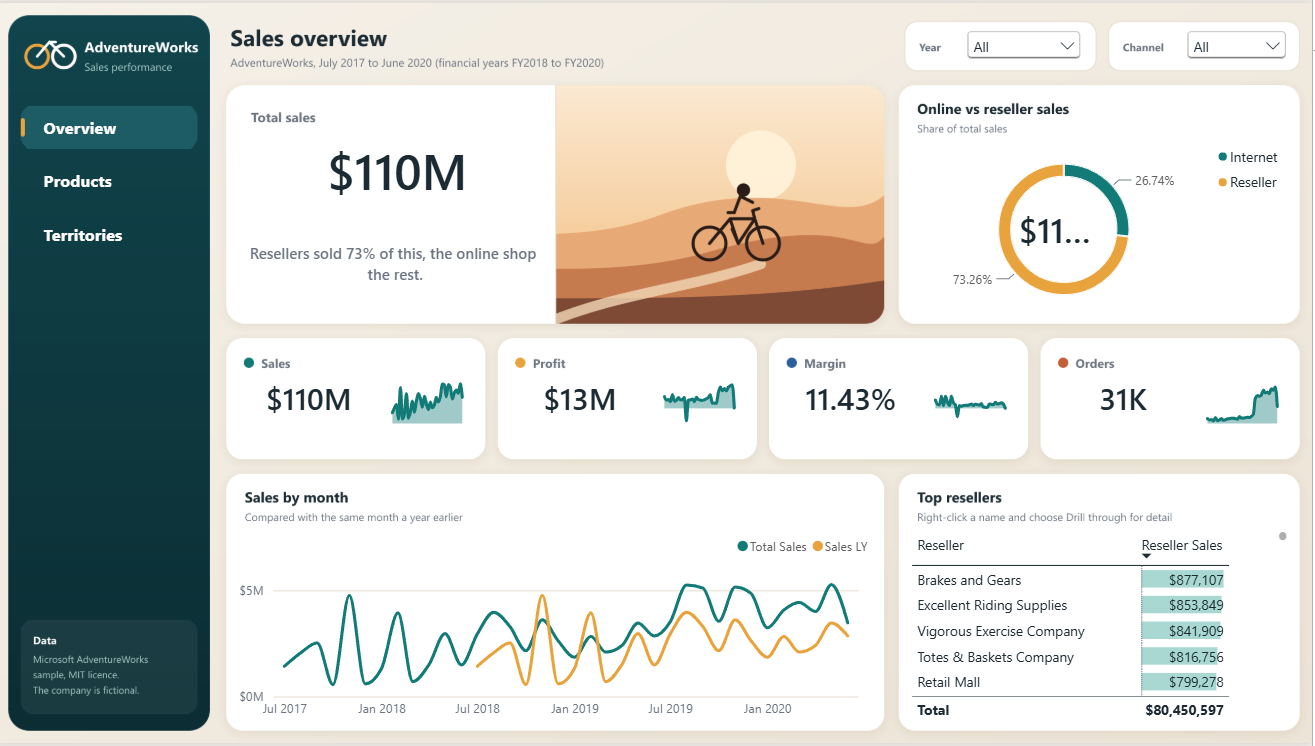
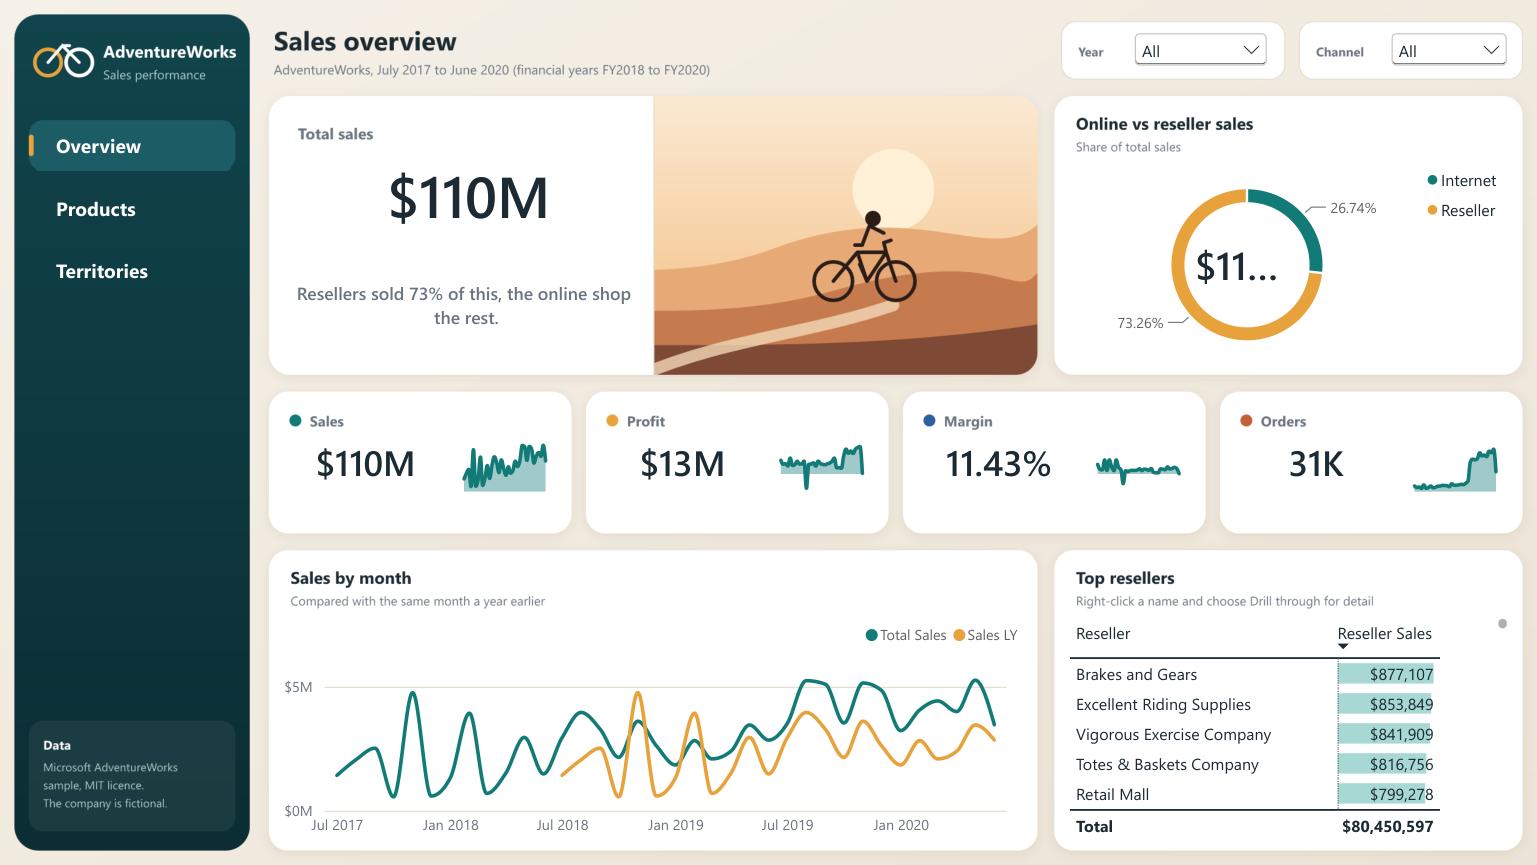
Power BI page: show all four report pages in a tabbed viewer

diff --git a/adventureworks.html b/adventureworks.html
@@ -23,8 +23,8 @@
       content="A four-page Power BI report on Microsoft's fictional AdventureWorks sales data: $110M of sales, 11.43% margin, and online against reseller sales."
     />
     <meta property="og:image" content="https://yarida-cv.vercel.app/images/adventureworks-overview.png" />
-    <meta property="og:image:width" content="1315" />
-    <meta property="og:image:height" content="746" />
+    <meta property="og:image:width" content="1537" />
+    <meta property="og:image:height" content="865" />
     <meta property="og:image:alt" content="The Sales overview page of the Power BI report, with total sales, profit, margin, orders, online against reseller sales and sales by month" />
     <meta name="twitter:card" content="summary_large_image" />
     <meta name="twitter:title" content="Power BI sales report | Yarida Kaewthong" />
@@ -44,6 +44,23 @@
     <link rel="stylesheet" href="housing.css" />
     <style>
       .result-shot { margin: 1.5rem 0 0; }
+      .aw-viewer { margin: 3rem 0 2.5rem; border: 1px solid var(--line); background: var(--surface); }
+      .aw-bar { display: flex; flex-wrap: wrap; align-items: center; gap: .6rem 1.25rem; padding: .85rem 1rem; border-bottom: 1px solid var(--line); }
+      .aw-title { margin: 0; font-family: "Public Sans", sans-serif; font-weight: 700; font-size: 1rem; color: var(--ink); }
+      .aw-title span { margin-left: .5rem; font-weight: 500; font-size: .85rem; color: var(--muted); }
+      .aw-tabs { display: flex; flex-wrap: wrap; gap: .4rem; margin-left: auto; }
+      .aw-tabs button { font: inherit; font-size: .92rem; font-weight: 600; padding: .45rem .9rem; min-height: 44px; border: 1px solid var(--line); background: var(--paper); color: var(--muted); cursor: pointer; }
+      .aw-tabs button:hover { color: var(--ink); border-color: var(--ink); }
+      .aw-tabs button[aria-selected="true"] { background: var(--ink); border-color: var(--ink); color: var(--paper); }
+      .aw-tabs button:focus-visible { outline: 3px solid var(--accent); outline-offset: 2px; }
+      .aw-stage { padding: 1rem; }
+      .aw-panel { margin: 0; }
+      .aw-open { display: block; cursor: zoom-in; }
+      .aw-panel img { display: block; width: 100%; height: auto; border: 1px solid var(--line); background: #fff; }
+      .aw-panel figcaption { margin-top: .75rem; color: var(--muted); font-size: .95rem; }
+      .aw-foot { margin: 0; padding: .6rem 1rem .8rem; border-top: 1px solid var(--line); color: var(--muted); font-size: .85rem; }
+      @media (max-width: 640px) { .aw-tabs { margin-left: 0; width: 100%; } .aw-tabs button { flex: 1 1 calc(50% - .4rem); } }
+      @media print { .aw-panel[hidden] { display: block; } .aw-tabs, .aw-foot { display: none; } }
     </style>
   </head>
   <body>
@@ -89,17 +106,36 @@
             <div><span class="metric-number">73%</span><span>of sales came from resellers<br />the online shop sold 27%</span></div>
           </div>
 
-          <figure class="study-hero" id="overview">
-            <img
-              src="images/adventureworks-overview.png"
-              alt="The Sales overview page of the Power BI report: total sales of $110 million, an online against reseller donut chart (26.74% and 73.26%), cards for sales, profit, margin and orders, a monthly sales line chart compared with the year before, and a table of top resellers"
-              width="1315"
-              height="746"
-            />
-            <figcaption>
-              The Overview page. The four cards show sales, profit, margin and orders, and the line chart compares each month with the same month a year earlier.
-            </figcaption>
-          </figure>
+          <section class="aw-viewer" id="overview" aria-label="The four pages of the Power BI report">
+            <div class="aw-bar">
+              <p class="aw-title">AdventureWorks sales report <span>4 pages</span></p>
+              <div class="aw-tabs" role="tablist" aria-label="Report pages">
+                <button type="button" role="tab" id="aw-tab-overview" aria-controls="aw-panel-overview" aria-selected="true">Overview</button>
+                <button type="button" role="tab" id="aw-tab-products" aria-controls="aw-panel-products" aria-selected="false" tabindex="-1">Products</button>
+                <button type="button" role="tab" id="aw-tab-territories" aria-controls="aw-panel-territories" aria-selected="false" tabindex="-1">Territories</button>
+                <button type="button" role="tab" id="aw-tab-reseller-detail" aria-controls="aw-panel-reseller-detail" aria-selected="false" tabindex="-1">Reseller detail</button>
+              </div>
+            </div>
+            <div class="aw-stage">
+              <figure class="aw-panel" role="tabpanel" id="aw-panel-overview" aria-labelledby="aw-tab-overview">
+                <a class="aw-open" href="images/adventureworks-overview.png" target="_blank" rel="noopener"><img src="images/adventureworks-overview.png" alt="The Sales overview page: total sales, an online against reseller donut chart, cards for sales, profit, margin and orders, a monthly sales line compared with the year before, and the top resellers." width="1537" height="865" /></a>
+                <figcaption>The Overview page. The four cards show sales, profit, margin and orders, and the line chart compares each month with the same month a year earlier.</figcaption>
+              </figure>
+              <figure class="aw-panel" role="tabpanel" id="aw-panel-products" aria-labelledby="aw-tab-products" hidden>
+                <a class="aw-open" href="images/adventureworks-products.png" target="_blank" rel="noopener"><img src="images/adventureworks-products.png" alt="The Products page: sales and margin by product category, sales by subcategory, margin by subcategory and a product ranking." width="1537" height="865" loading="lazy" /></a>
+                <figcaption>The Products page. Bikes are 86% of sales, and accessories have the highest margin at about 50%.</figcaption>
+              </figure>
+              <figure class="aw-panel" role="tabpanel" id="aw-panel-territories" aria-labelledby="aw-tab-territories" hidden>
+                <a class="aw-open" href="images/adventureworks-territories.png" target="_blank" rel="noopener"><img src="images/adventureworks-territories.png" alt="The Territories page: sales by country this year and last, year-on-year growth by region, reseller sales by business type and a table of online, reseller and shipped sales by country." width="1537" height="865" loading="lazy" /></a>
+                <figcaption>The Territories page. Pick a year to compare each country with the year before. The table shows shipped sales using the ship-date relationship.</figcaption>
+              </figure>
+              <figure class="aw-panel" role="tabpanel" id="aw-panel-reseller-detail" aria-labelledby="aw-tab-reseller-detail" hidden>
+                <a class="aw-open" href="images/adventureworks-reseller-detail.png" target="_blank" rel="noopener"><img src="images/adventureworks-reseller-detail.png" alt="The Reseller detail page: sales, orders and margin for one reseller, sales by month against the same month last year, the products they bought and their top subcategories." width="1537" height="865" loading="lazy" /></a>
+                <figcaption>The Reseller detail page. Right-click a reseller on the Overview page and choose Drill through to open it for that reseller. It is showing all resellers here.</figcaption>
+              </figure>
+            </div>
+            <p class="aw-foot">Pictures of the report from Power BI Desktop. Click a page name above to look at each one, or click a picture to open it full size.</p>
+          </section>
 
           <section class="study-block" id="findings">
             <h2>What the report shows</h2>
@@ -151,7 +187,7 @@
 
           <section class="study-block ref-block" id="references">
             <h2>About the data</h2>
-            <p class="ref-provided"><strong>Where the data comes from:</strong> Microsoft's AdventureWorks Sales sample (MIT licence), a fictional bicycle company. The company and every figure are made up, and nothing here describes a real business. The report is a Power BI project on my laptop and is not published online, so the screenshot above shows it.</p>
+            <p class="ref-provided"><strong>Where the data comes from:</strong> Microsoft's AdventureWorks Sales sample (MIT licence), a fictional bicycle company. The company and every figure are made up, and nothing here describes a real business. The report is a Power BI project on my laptop and is not published online, so the pictures above show each page.</p>
           </section>
 
           <div class="study-actions study-footer-actions">
@@ -175,5 +211,30 @@
       </footer>
     </div>
     <script src="app.js"></script>
+    <script>
+      (function () {
+        var tabs = document.querySelectorAll(".aw-tabs [role=tab]");
+        function show(tab, focus) {
+          tabs.forEach(function (t) {
+            var on = t === tab;
+            t.setAttribute("aria-selected", on ? "true" : "false");
+            t.tabIndex = on ? 0 : -1;
+            document.getElementById(t.getAttribute("aria-controls")).hidden = !on;
+          });
+          if (focus) tab.focus();
+        }
+        tabs.forEach(function (t, i) {
+          t.addEventListener("click", function () { show(t, false); });
+          t.addEventListener("keydown", function (e) {
+            var n = null;
+            if (e.key === "ArrowRight") n = tabs[(i + 1) % tabs.length];
+            if (e.key === "ArrowLeft") n = tabs[(i - 1 + tabs.length) % tabs.length];
+            if (e.key === "Home") n = tabs[0];
+            if (e.key === "End") n = tabs[tabs.length - 1];
+            if (n) { e.preventDefault(); show(n, true); }
+          });
+        });
+      })();
+    </script>
   </body>
 </html>

diff --git a/index.html b/index.html
@@ -203,7 +203,7 @@
             </article>
             <article class="project-card" data-tone="blue">
               <div class="project-shot is-contain" data-mark="BI">
-                <img src="images/adventureworks-overview.png" alt="Power BI Sales overview page: total sales, profit, margin, orders, online against reseller sales and sales by month" loading="lazy" width="1315" height="746" />
+                <img src="images/adventureworks-overview.png" alt="Power BI Sales overview page: total sales, profit, margin, orders, online against reseller sales and sales by month" loading="lazy" width="1537" height="865" />
               </div>
               <div class="project-body">
                 <h3><a class="card-link" href="adventureworks.html">Power BI sales report</a></h3>

diff --git a/cloudcore.html b/cloudcore.html
@@ -364,7 +364,7 @@
             <span class="np-title">Power BI sales report</span>
             <span class="np-blurb">A four-page report on Microsoft's fictional AdventureWorks sales data: sales, profit, margin and online against reseller sales.</span>
           </span>
-          <img class="np-shot" src="images/adventureworks-overview.png" alt="" width="1315" height="746" loading="lazy" decoding="async" />
+          <img class="np-shot" src="images/adventureworks-overview.png" alt="" width="1537" height="865" loading="lazy" decoding="async" />
         </a>
       </main>
 
